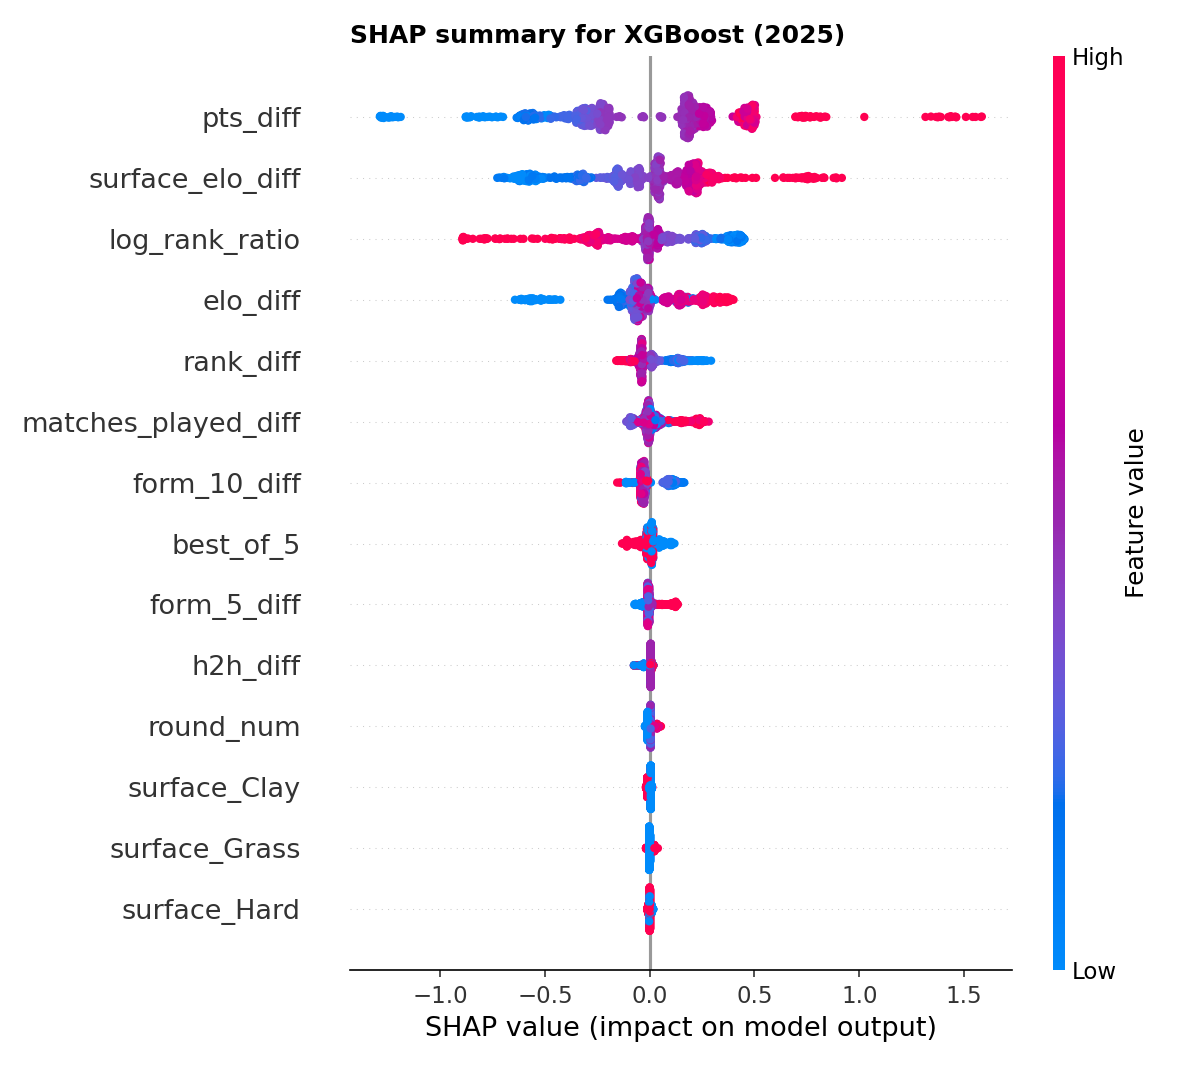
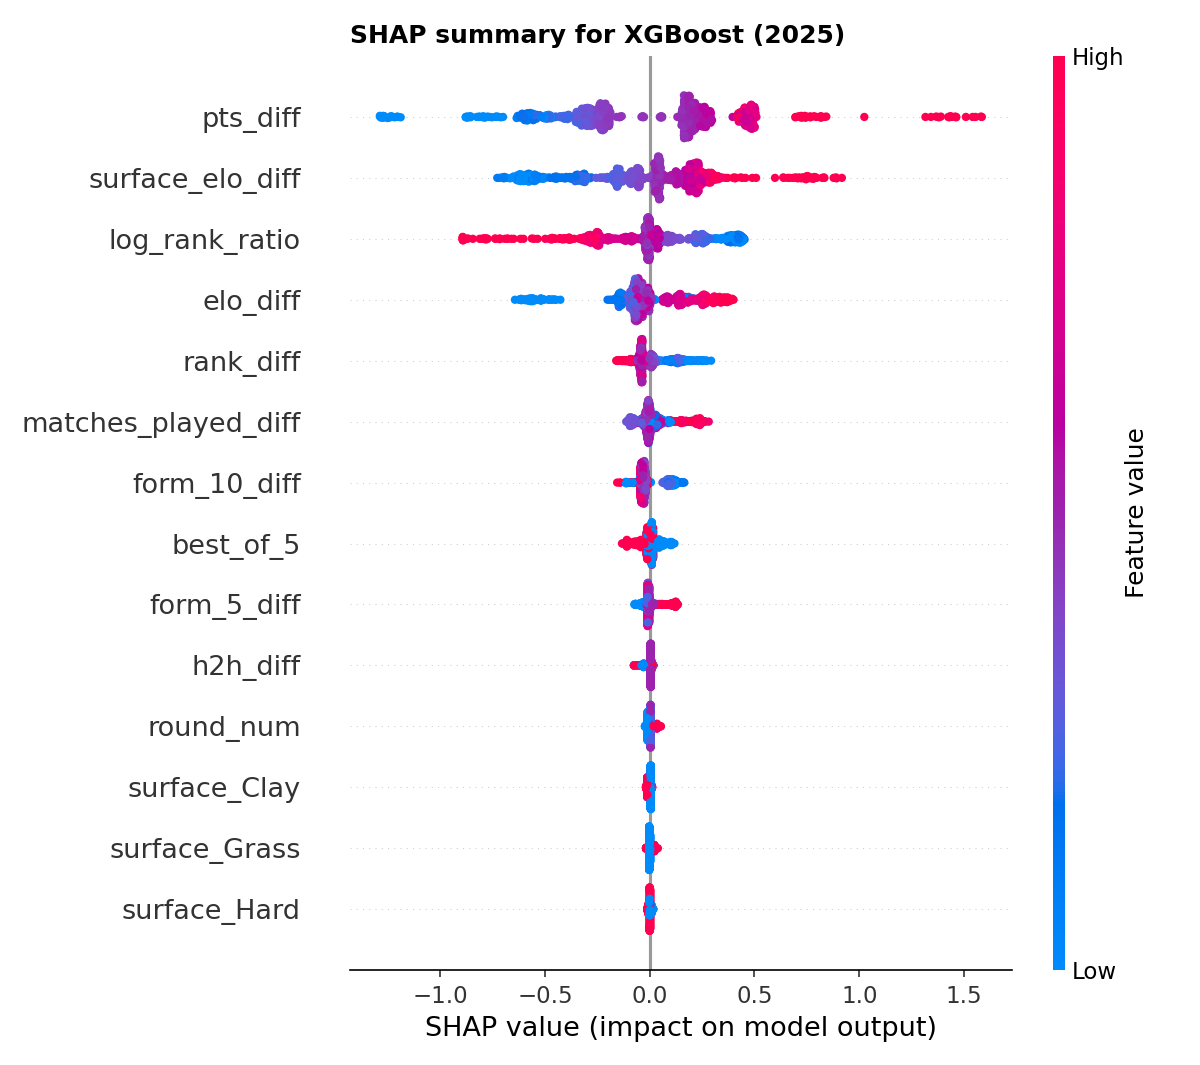
Make SHAP plot reproducible with a fixed seed

diff --git a/src/evaluate.py b/src/evaluate.py
@@ -163,6 +163,9 @@ def plot_shap(xgb, test):
     X = test[FEATURE_COLUMNS]
     explainer = shap.TreeExplainer(xgb)
     shap_values = explainer.shap_values(X)
+    # The plot spreads the dots out a bit at random so they don't overlap.
+    # Fixing the seed makes the picture exactly the same every run.
+    np.random.seed(0)
     shap.summary_plot(shap_values, X, show=False)
     plt.title(f"SHAP summary for XGBoost ({TEST_YEAR})", loc="left", fontweight="bold")
     plt.tight_layout()
